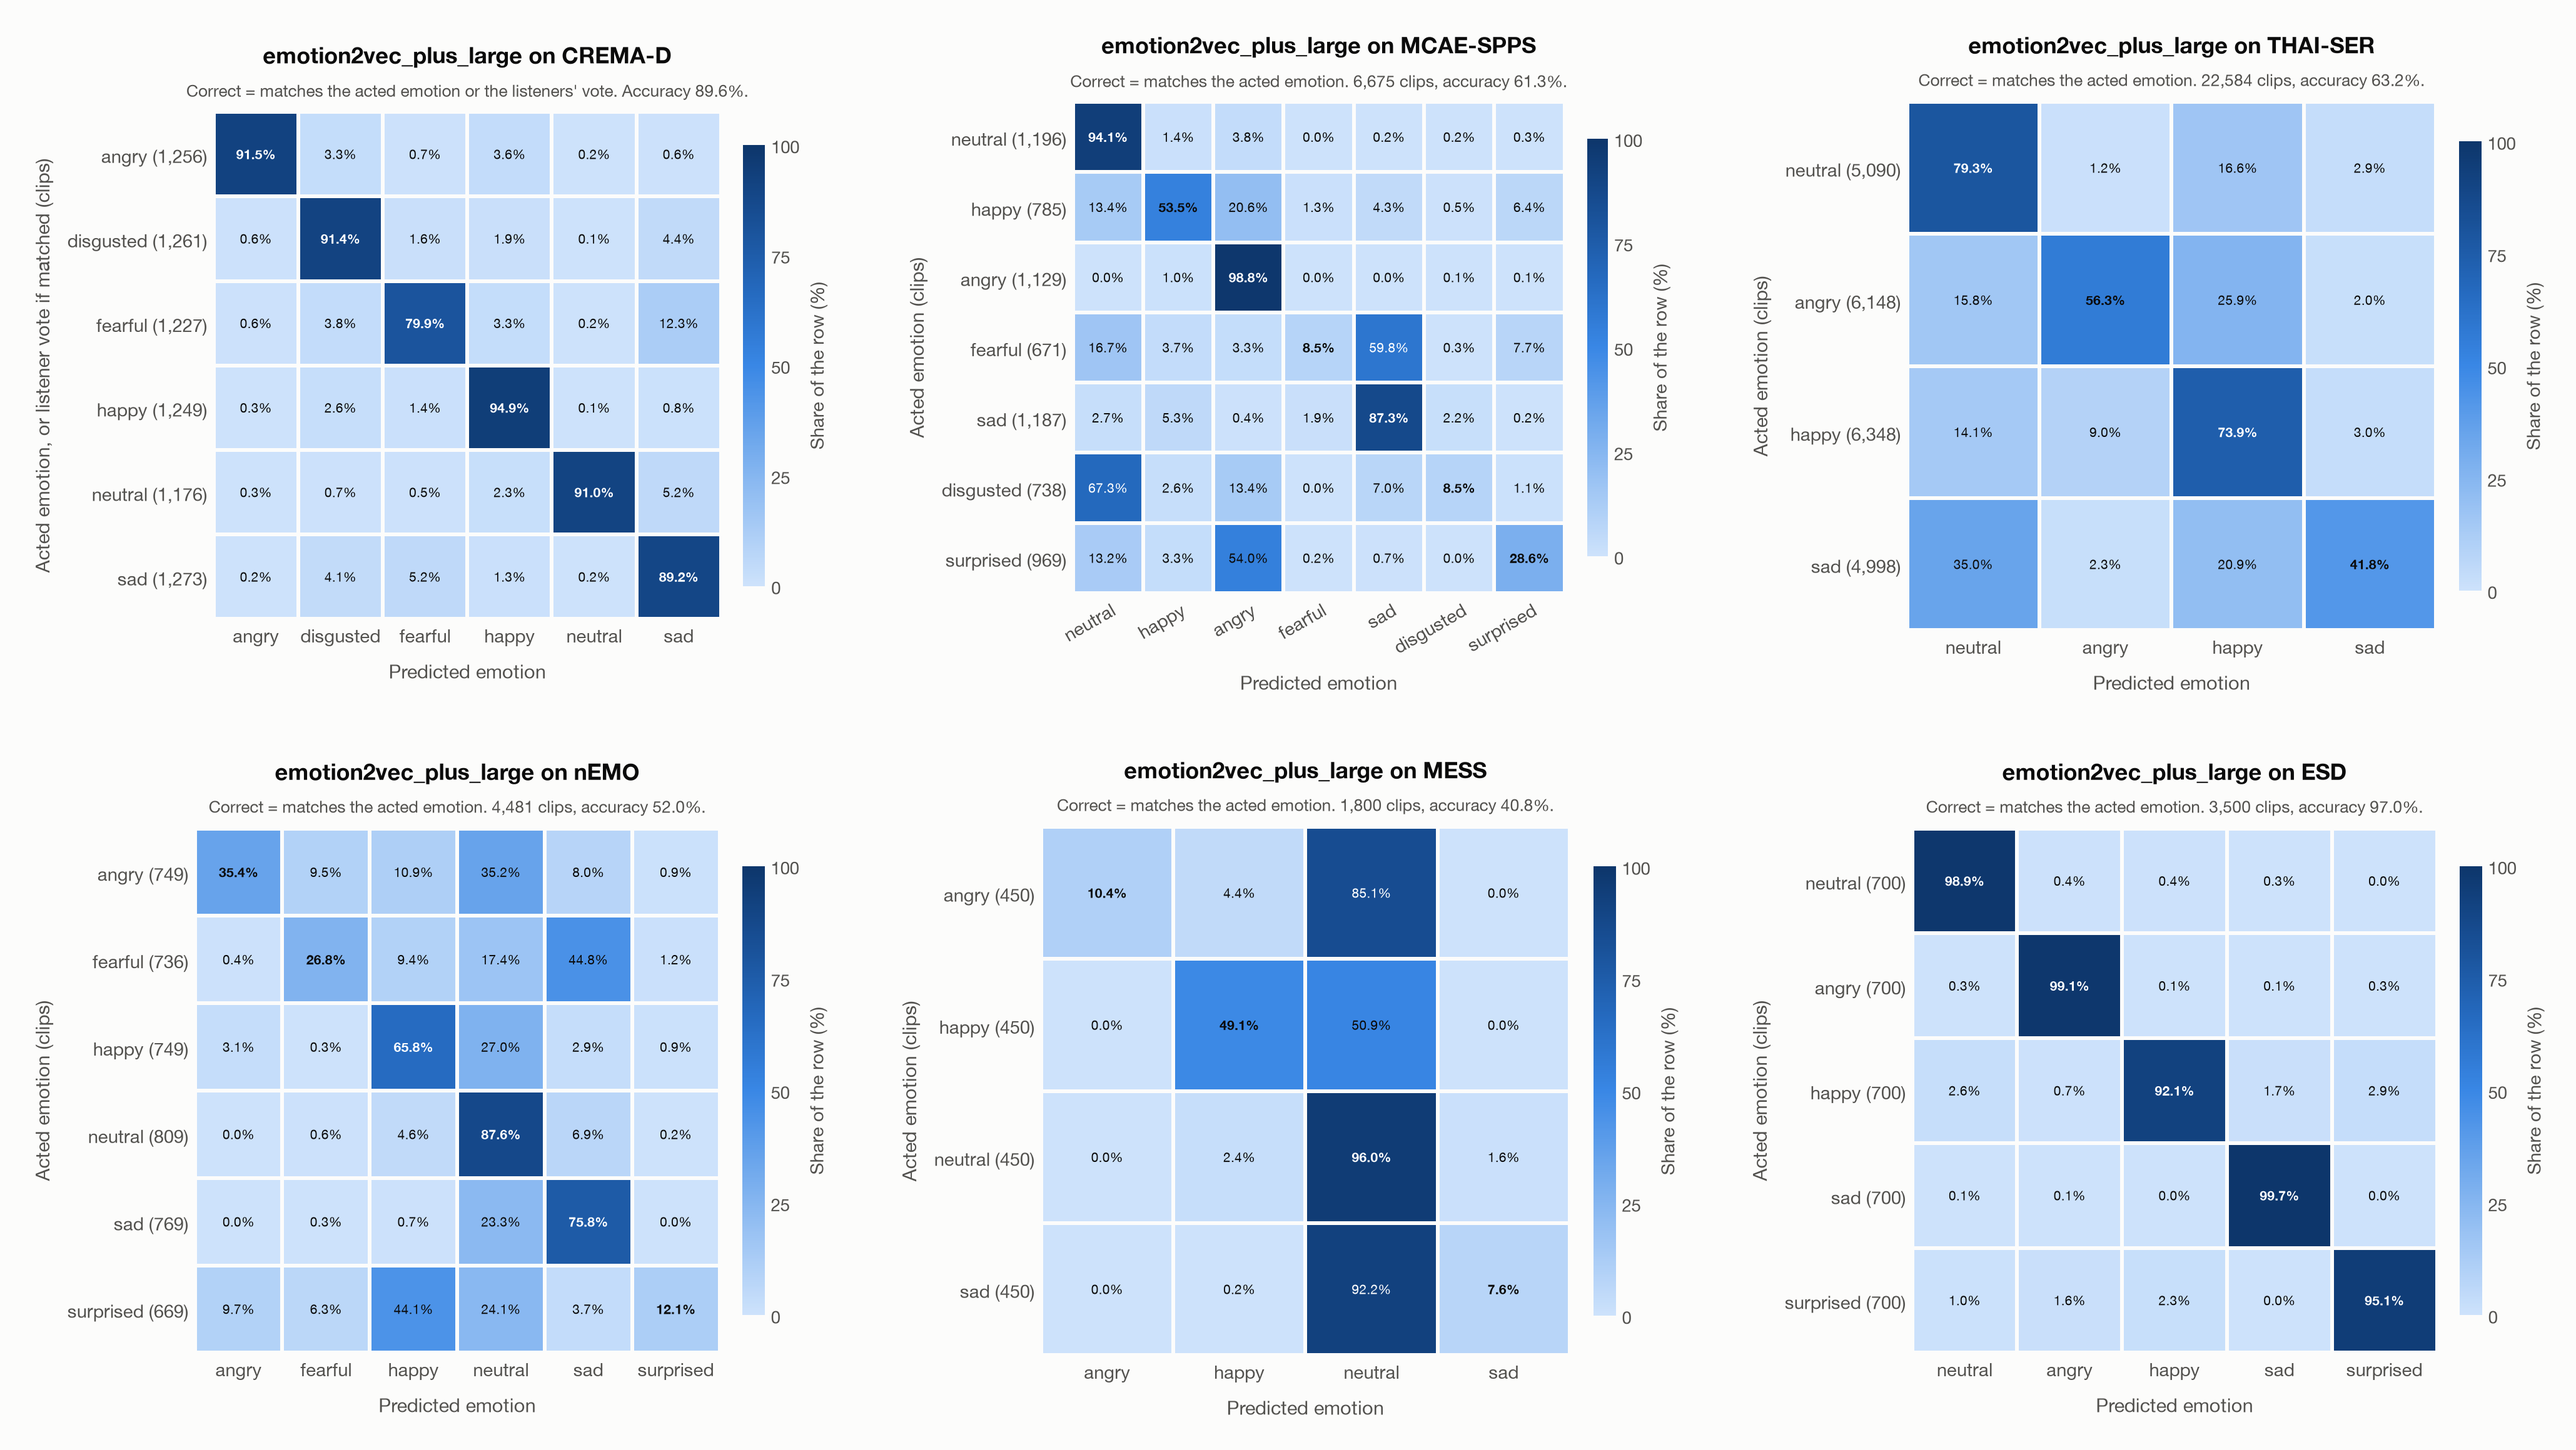
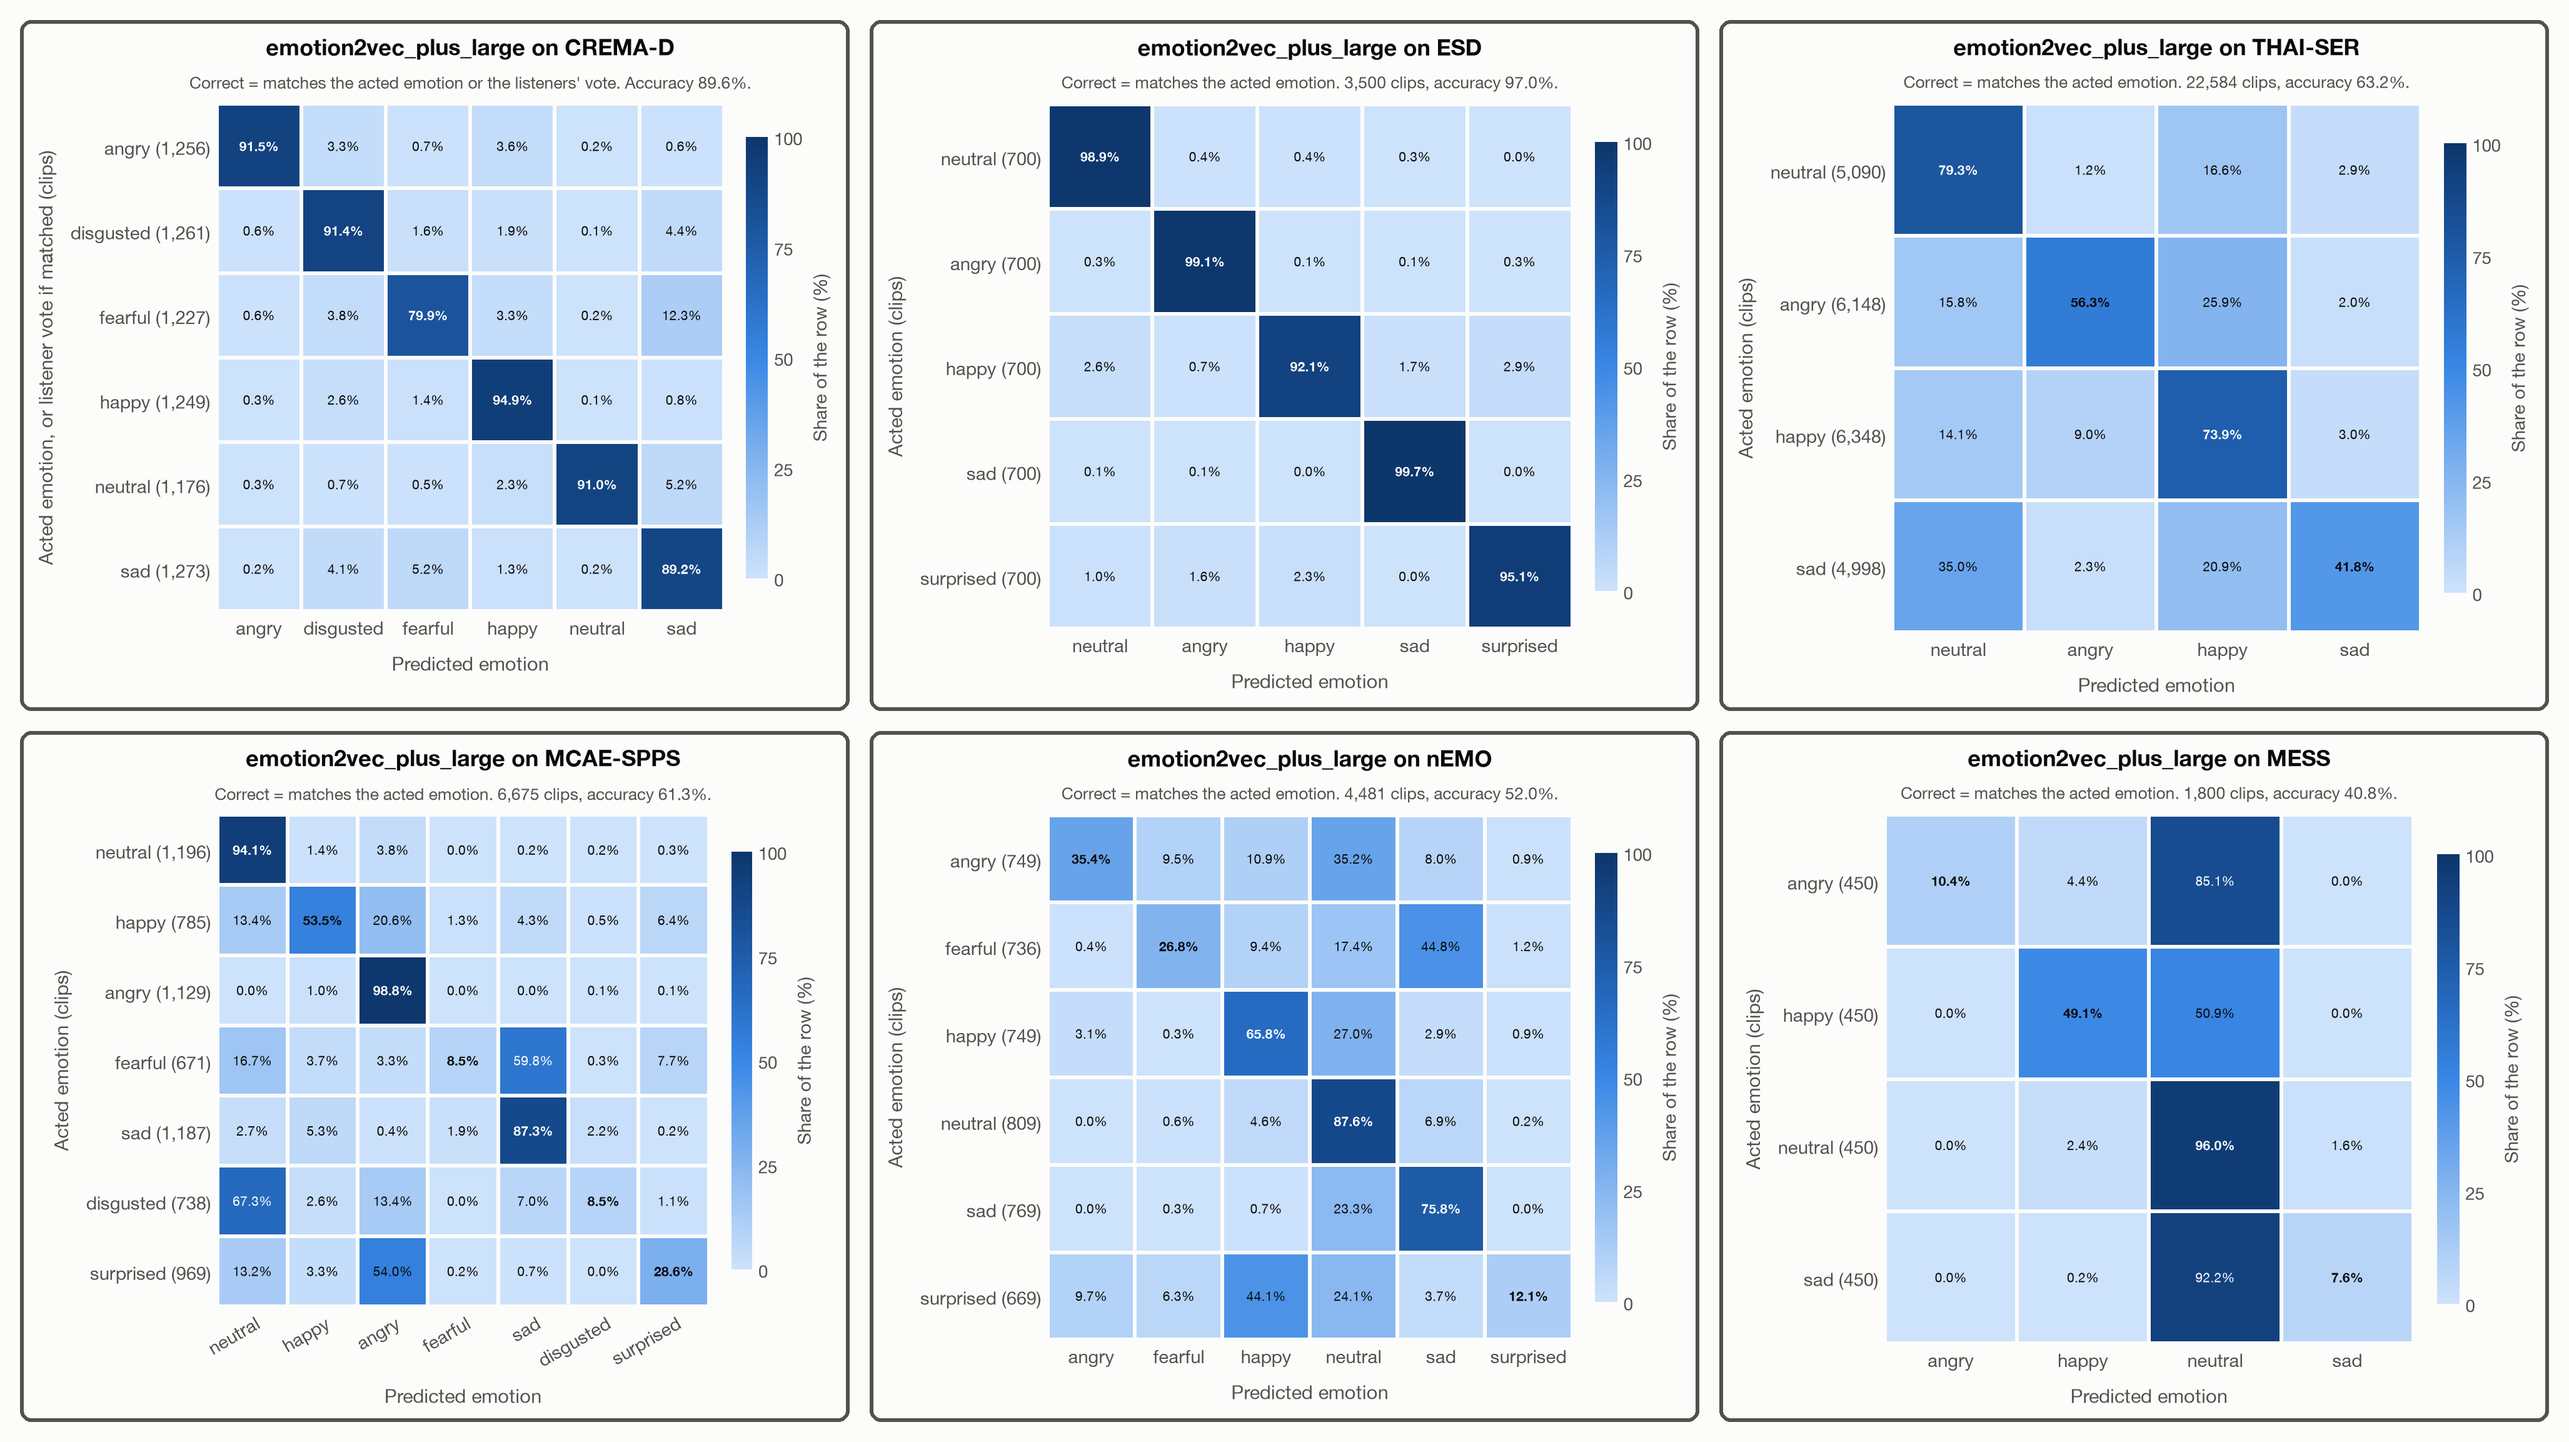
Summary figure: best results first, a frame around each matrix, rows closer together
The panel order and the datasets that show the "acted emotion or listeners' vote" matrix are now set
together in evaluation.summary_figure (order: CREMA-D, ESD, THAI-SER, MCAE-SPPS, nEMO, MESS). The empty
margin of each figure is cut off, and each matrix sits in a frame with a thick border.

diff --git a/scripts/evaluate.py b/scripts/evaluate.py
@@ -121,16 +121,26 @@ def plot_confusion(cm, names, title, subtitle, ylabel, path):
     plt.close(fig)
 
 
-def stitch(paths, path, columns=3):
-    """Put figures side by side in a grid, row by row; each sits in the centre of a cell as large as the largest."""
-    from PIL import Image
-    images = [Image.open(p).convert("RGBA") for p in paths]
+def stitch(paths, path, columns=3, gap=32, pad=24, border=6):
+    """Put figures in a grid, row by row, each in a frame with a thick border. The empty margin of each figure is cut
+    off first, so `gap` (between frames) and `pad` (inside a frame) set the spacing. All frames have the same size;
+    each figure is centred across its frame and aligned to its top, so the titles of a row line up."""
+    from PIL import Image, ImageChops, ImageDraw
+    images = []
+    for p in paths:
+        im = Image.open(p).convert("RGB")
+        images.append(im.crop(ImageChops.difference(im, Image.new("RGB", im.size, SURFACE)).getbbox()))
     columns = min(columns, len(images))
-    w, h = max(im.width for im in images), max(im.height for im in images)
-    grid = Image.new("RGBA", (columns * w, -(-len(images) // columns) * h), SURFACE)
+    rows = -(-len(images) // columns)
+    w = max(im.width for im in images) + 2 * (pad + border)
+    h = max(im.height for im in images) + 2 * (pad + border)
+    grid = Image.new("RGB", (columns * w + (columns + 1) * gap, rows * h + (rows + 1) * gap), SURFACE)
+    draw = ImageDraw.Draw(grid)
     for k, im in enumerate(images):
-        grid.paste(im, ((k % columns) * w + (w - im.width) // 2, (k // columns) * h + (h - im.height) // 2), im)
-    grid.convert("RGB").save(path, optimize=True)
+        x, y = gap + (k % columns) * (w + gap), gap + (k // columns) * (h + gap)
+        draw.rounded_rectangle((x, y, x + w - 1, y + h - 1), radius=18, outline=INK_2, width=border)
+        grid.paste(im, (x + (w - im.width) // 2, y + border + pad))
+    grid.save(path, optimize=True)
 
 
 class Predictor:
@@ -406,10 +416,11 @@ def shared_scores(run, shared):
     return len(rows), hit.mean(), np.mean([hit[truth == e].mean() for e in shared if (truth == e).any()])
 
 
-def write_summary(model_name, acted_or_listener=()):
+def write_summary(model_name, figure_order=(), acted_or_listener=()):
     """reports/<model>_summary.md: one row per evaluated dataset, read from the JSON files in outputs/. A dataset with
-    a full run and a sample (evaluation.limit) is shown with the run that has the most clips. The datasets in
-    acted_or_listener show their "acted emotion or listeners' vote" confusion matrix in the summary figure."""
+    a full run and a sample (evaluation.limit) is shown with the run that has the most clips. The summary figure shows
+    the datasets in figure_order first (the others follow in table order); those in acted_or_listener show their
+    "acted emotion or listeners' vote" confusion matrix."""
     order = list(LOADERS)
     out = ROOT / "outputs"
     best = {}
@@ -448,9 +459,11 @@ def write_summary(model_name, acted_or_listener=()):
     ]
     # Every dataset's confusion matrix (the figures of the reports) stitched into one figure
     figures = ROOT / "reports" / "figures"
-    lenient = [r for r in runs if r["key"] in acted_or_listener
+    rank = {key: k for k, key in enumerate(figure_order)}
+    shown = sorted(runs, key=lambda r: rank.get(r["key"], len(rank)))
+    lenient = [r for r in shown if r["key"] in acted_or_listener
                and (figures / f"{r['stem']}_confusion_acted_or_listener.png").exists()]
-    panels = [figures / f"{r['stem']}_confusion{'_acted_or_listener' if r in lenient else ''}.png" for r in runs]
+    panels = [figures / f"{r['stem']}_confusion{'_acted_or_listener' if r in lenient else ''}.png" for r in shown]
     panels = [p for p in panels if p.exists()]
     if panels:
         grid = figures / f"{model_name}_summary_confusion.png"
@@ -460,11 +473,12 @@ def write_summary(model_name, acted_or_listener=()):
             "",
             f"![Confusion matrices of {model_name} on every dataset]({grid.relative_to(ROOT / 'reports').as_posix()})",
             "",
-            "One matrix per dataset, in the order of the table above, from each dataset's report. Rows: acted emotion; "
-            "columns: predicted emotion; each row adds up to 100%."
+            f"One matrix per dataset, from each dataset's report: {', '.join(r['dataset'] for r in shown)} (order: "
+            "`evaluation.summary_figure` in config/config.yaml). Rows: acted emotion; columns: predicted emotion; each "
+            "row adds up to 100%."
             + (f" {', '.join(r['dataset'] for r in lenient)}: the matrix where a prediction also counts as correct when "
-               "it matches the listeners' vote, so a clip whose prediction matched that vote sits in the row of that vote "
-               "(`evaluation.summary_acted_or_listener` in config/config.yaml)." if lenient else ""),
+               "it matches the listeners' vote, so a clip whose prediction matched that vote sits in the row of that "
+               "vote." if lenient else ""),
             "",
         ]
     # The same comparison on the emotions that every dataset has, so that the choice of emotions does not matter
@@ -564,7 +578,8 @@ def main():
     # Steps 4-6 for every dataset, then a summary of all evaluated datasets
     for key in keys:
         evaluate(LOADERS[key](), predict, labels, model_name, device, limit, {"funasr": funasr.__version__})
-    write_summary(model_name, settings["summary_acted_or_listener"])
+    figure = settings["summary_figure"]
+    write_summary(model_name, figure["order"], figure["acted_or_listener"])
 
 
 if __name__ == "__main__":

diff --git a/reports/emotion2vec_plus_large_summary.md b/reports/emotion2vec_plus_large_summary.md
@@ -20,7 +20,7 @@ Generated by `scripts/evaluate.py` on 2026-10-26. Each dataset links to its full
 
 ![Confusion matrices of emotion2vec_plus_large on every dataset](figures/emotion2vec_plus_large_summary_confusion.png)
 
-One matrix per dataset, in the order of the table above, from each dataset's report. Rows: acted emotion; columns: predicted emotion; each row adds up to 100%. CREMA-D: the matrix where a prediction also counts as correct when it matches the listeners' vote, so a clip whose prediction matched that vote sits in the row of that vote (`evaluation.summary_acted_or_listener` in config/config.yaml).
+One matrix per dataset, from each dataset's report: CREMA-D, ESD, THAI-SER, MCAE-SPPS, nEMO, MESS (order: `evaluation.summary_figure` in config/config.yaml). Rows: acted emotion; columns: predicted emotion; each row adds up to 100%. CREMA-D: the matrix where a prediction also counts as correct when it matches the listeners' vote, so a clip whose prediction matched that vote sits in the row of that vote.
 
 ## Only the emotions every dataset has: angry, happy, neutral, sad
 

diff --git a/README.md b/README.md
@@ -382,8 +382,10 @@ evaluation:
   devices:          # device per mode for evaluation
     mac: cpu        # on the Mac the CPU is faster than MPS here (see below)
     cuda: cuda:0
-  summary_acted_or_listener: [crema_d]  # in the summary figure, these datasets show the confusion matrix where the
-                                        # listeners' vote also counts as correct; the others show the acted emotion
+  summary_figure:   # every dataset's confusion matrix in one figure, in the summary report
+    order: [crema_d, esd, thai_ser, mcae_spps, nemo, mess]  # panels row by row; datasets not listed come last
+    acted_or_listener: [crema_d]  # these show the matrix where the listeners' vote also counts as correct;
+                                  # the others show the acted emotion
 ```
 
 Each dataset has a loader in `scripts/eval_datasets.py` that reads its labels and maps them to emotion2vec+ classes;
